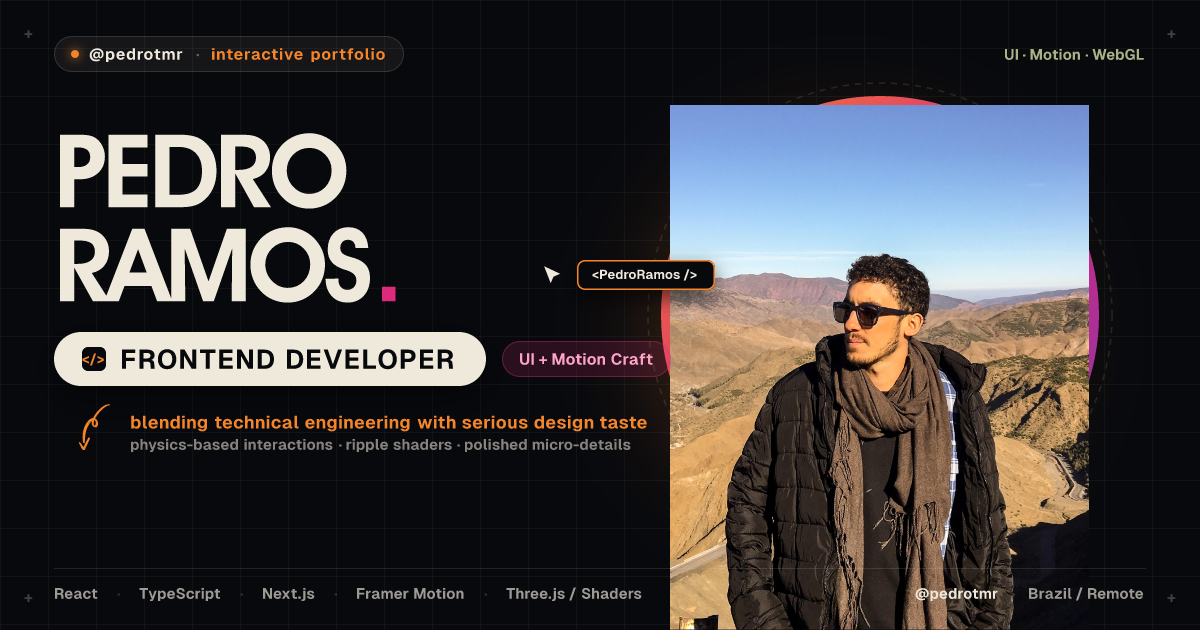
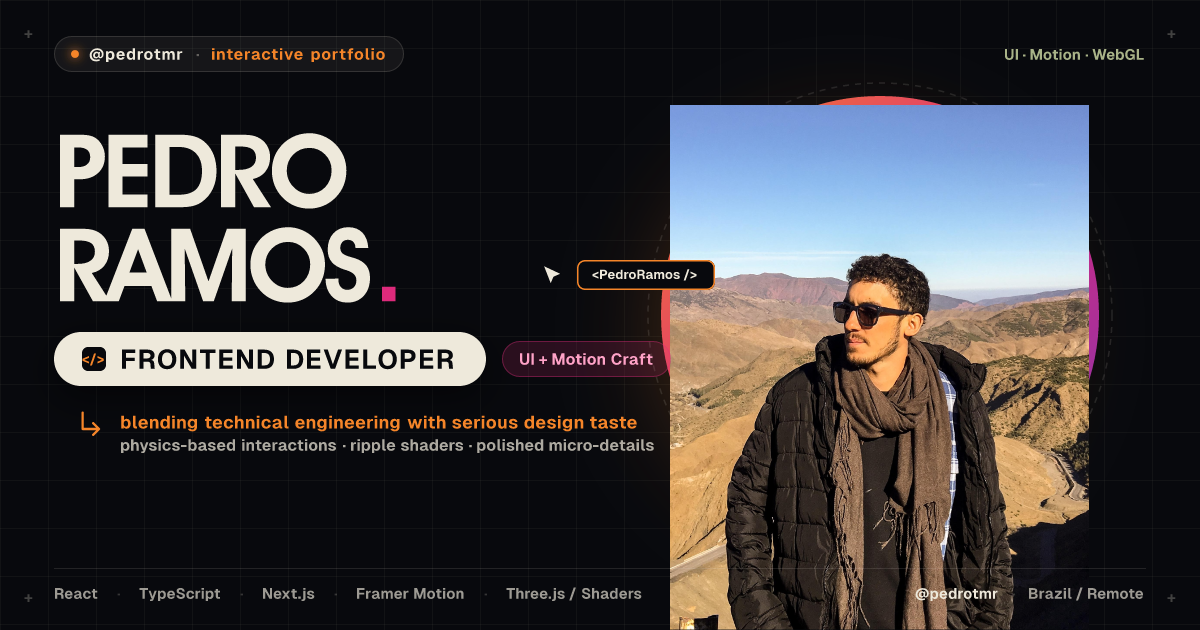
polish: refine share card details

Changed region(s): [[0.0617, 0.6333, 0.555, 0.7238], [0.555, 0.4222, 0.6167, 0.4825]]

diff --git a/app/opengraph-image.tsx b/app/opengraph-image.tsx
@@ -351,7 +351,7 @@ export default async function OpenGraphImage({ id }: { id: string }) {
             </div>
           </div>
 
-          {/* Delight Layer: Hand-drawn Annotation from Pedro's site */}
+          {/* A precise branch marker echoes the portfolio's motion language. */}
           <div
             style={{
               display: 'flex',
@@ -361,25 +361,13 @@ export default async function OpenGraphImage({ id }: { id: string }) {
               marginLeft: 24,
             }}
           >
-            <svg
-              viewBox="0 0 24 27.176"
-              width="38"
-              height="42"
-              style={{
-                transform: 'rotate(-10deg)',
-              }}
-            >
+            <svg width="28" height="28" viewBox="0 0 24 24" fill="none">
               <path
-                fill="#F58529"
-                fillRule="evenodd"
-                clipRule="evenodd"
-                d="m12.849 7.741 1.668-1.968a7.6 7.6 0 0 0-1.668 1.968m-4.672 3.183c.723-.678 1.415-1.374 2.204-1.963-.93.439-1.591 1.182-2.204 1.963m3.561 1.381c.186.333.376.168.555.027.606-.477.652-1.183.689-1.859.027-.493-.007-1.008-.262-1.463-.097-.173-.222-.284-.374-.032-.414.687-.726 1.411-.784 2.221-.028.386.018.766.176 1.105m-1.134-2.952c-.553.284-.984.731-1.424 1.159-1.9 1.852-3.092 4.12-3.919 6.614-.552 1.666-.941 3.368-1.27 5.087-.03.157-.055.317-.163.443-.122.142-.237.192-.283-.053-.011-.061.031-.148-.081-.122-.387.089-.436-.202-.504-.454-.127-.472-.039-.952.001-1.423.113-1.319.277-2.635.611-3.918.311-1.191.791-2.323 1.302-3.442.325-.712.666-1.432 1.214-1.985.364-.367.56-.833.912-1.196.675-.697 1.355-1.383 2.172-1.918.673-.44 1.409-.681 2.213-.684a.72.72 0 0 0 .611-.301 45 45 0 0 1 1.288-1.584c.712-.842 1.554-1.567 2.419-2.254 1.38-1.097 2.85-2.041 4.533-2.613.989-.336 1.986-.604 3.041-.316.278.076.521.196.665.464.062.115.076.222-.008.334-.099.132-.164.045-.274-.005-.752-.344-1.457-.039-2.16.195-1.938.643-3.566 1.801-5.111 3.094a21.4 21.4 0 0 0-3.202 3.304c-.075.097-.212.172-.024.31.658.481.994 1.169 1.133 1.946.215 1.199.096 2.34-.798 3.266-.48.498-.972.532-1.594.236-1.582-.752-1.887-2.371-1.37-3.743l.139-.368z"
-              />
-              <path
-                fill="#F58529"
-                fillRule="evenodd"
-                clipRule="evenodd"
-                d="M4.496 24.376c-.552.601-1.01 1.264-1.331 2.014zm-3.028-2.027c.397.725.664 1.505.96 2.272.044.115.036.272.221.288.178.015.224-.132.277-.238.291-.579.736-1.039 1.124-1.546.246-.32.432-.689.695-1.009.404-.494.771-1.019 1.14-1.541.187-.264.49-.429.583-.78.091-.345.365-.415.843-.205.244.108.443.323.313.634a4.3 4.3 0 0 1-.391.737c-1.025 1.518-2.063 3.027-3.09 4.544-.231.34-.438.697-.653 1.048-.389.639-.678.695-1.314.294-.494-.311-.767-.741-.883-1.308-.224-1.092-.479-2.178-.906-3.214-.086-.208-.2-.403-.294-.607-.109-.236-.037-.355.232-.334.596.046.69.124 1.144.964"
+                d="M4 4v14h14m-5-5 5 5-5 5"
+                stroke="#F58529"
+                strokeWidth="2"
+                strokeLinecap="round"
+                strokeLinejoin="round"
               />
             </svg>
             <div
@@ -402,8 +390,8 @@ export default async function OpenGraphImage({ id }: { id: string }) {
               </span>
               <span
                 style={{
-                  fontSize: 15,
-                  color: 'rgba(238, 233, 219, 0.55)',
+                  fontSize: 16,
+                  color: 'rgba(238, 233, 219, 0.72)',
                   marginTop: 3,
                 }}
               >
@@ -443,7 +431,6 @@ export default async function OpenGraphImage({ id }: { id: string }) {
               fontSize: 13,
               fontWeight: 700,
               fontFamily: 'Geist, monospace',
-              boxShadow: '0 8px 20px rgba(0,0,0,0.6)',
             }}
           >
             {'<PedroRamos />'}
